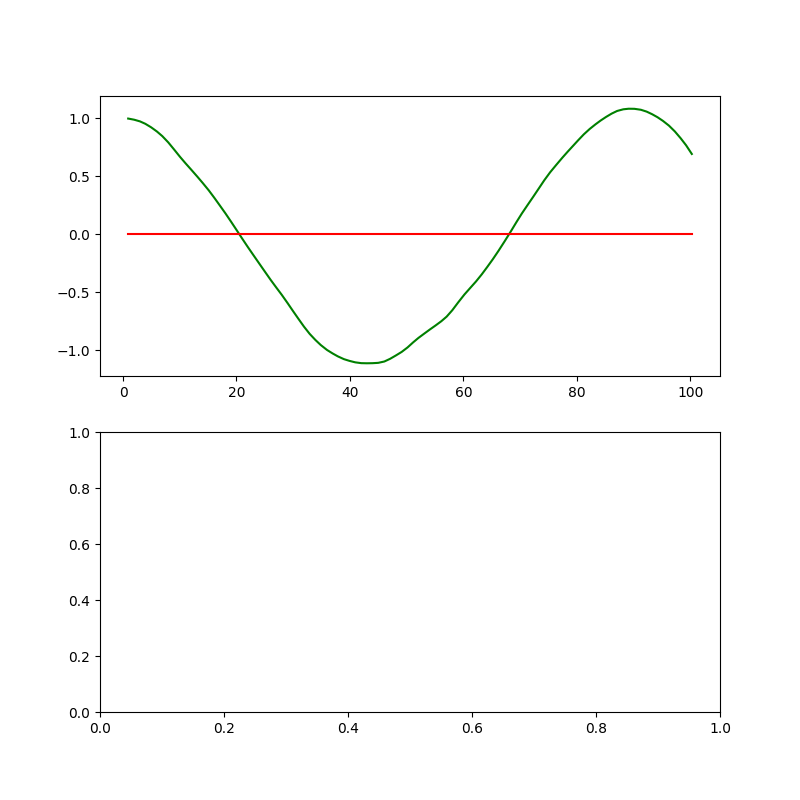
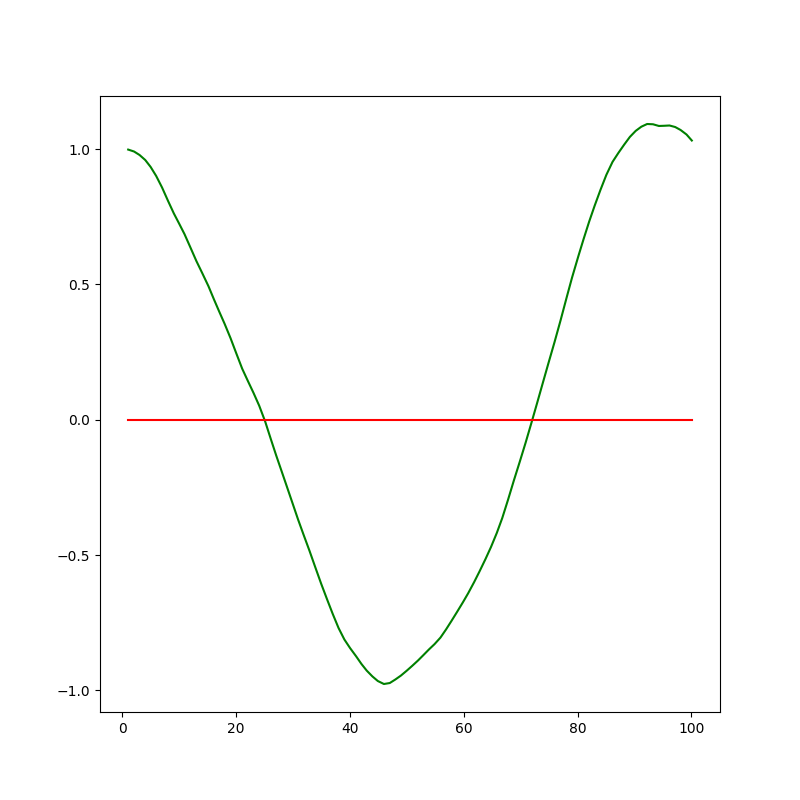
修改说明

diff --git a/PID/PIDControl_fore.py b/PID/PIDControl_fore.py
@@ -7,7 +7,6 @@ import numpy as np
  
 import matplotlib.pyplot as plt
  
- 
 class Robot(object):
  
   def __init__(self, length=20.0):
@@ -52,6 +51,10 @@ class Robot(object):
       Sets thenoise parameters.
     """
  
+    # makes itpossible to change the noise parameters
+ 
+    # this isoften useful in particle filters
+ 
     self.steering_noise = steering_noise
  
     self.distance_noise = distance_noise
@@ -86,21 +89,21 @@ class Robot(object):
     if distance< 0.0:
  
       distance= 0.0
- 
+
     # apply noise
     steering2 =random.gauss(steering, self.steering_noise)
- 
     distance2 =random.gauss(distance, self.distance_noise)
-
+ 
     # applysteering drift
     steering2 +=self.steering_drift
  
+
     # Execute motion
     turn =np.tan(steering2) * distance2 / self.length
- 
- 
- 
+
     if abs(turn)< tolerance:
+ 
+      #approximate by straight line motion
  
       self.x +=distance2 * np.cos(self.orientation)
  
@@ -109,6 +112,8 @@ class Robot(object):
       self.orientation = (self.orientation + turn) % (2.0 * np.pi)
  
     else:
+ 
+      #approximate bicycle model for motion
  
       radius =distance2 / turn
  
@@ -126,8 +131,8 @@ class Robot(object):
  
   def __repr__(self):
  
-    return '[x=%.5f y=%.5f orient=%.5f]' % (self.x, self.y, self.orientation)
-    
+    return'[x=%.5f y=%.5f orient=%.5f]' % (self.x, self.y, self.orientation)
+
  
 def run_p(robot, tau, n=100, speed=1.0):
  
@@ -155,16 +160,18 @@ robot = Robot()
  
 robot.set(0, 1, 0)
 
-robot.set_noise(0.1,0.05)
+robot.set_noise(0.01,0.01)
  
 
-def run(robot, tau, n=100, speed=1.0):
+def run(robot, tau_p, tau_d, tau_i, n=100, speed=1.0):
  
   x_trajectory = []
  
   y_trajectory = []
  
-  crosstrack_error = []
+  #steering =-tau_p * CTE - tau_d * diff_CTE - tau_i * int_CTE
+ 
+  crosstrack_error= []
  
   crosstrack_error.append(0.0)
  
@@ -179,10 +186,11 @@ def run(robot, tau, n=100, speed=1.0):
   distance = 0.0
  
  
-  print("tau:",tau)
+ 
   for i in range(n):
  
-    steering = -1 * tau
+    steering = -tau_p * crosstrack_error[i] - \
+        tau_d * diff_CTE - tau_i * sum(crosstrack_error)
  
     distance =speed
  
@@ -198,24 +206,27 @@ def run(robot, tau, n=100, speed=1.0):
  
     y1 = startY +(x1 - startX) * np.tan(startOrientation)
  
-    crosstrack_error = (robot.y - y1) * np.cos(startOrientation)
+    crosstrack =(robot.y - y1) * np.cos(startOrientation)
  
-    print("{} [{}, {}] {}".format(i,robot.x, robot.y,steering))
+    crosstrack_error.append(crosstrack)
+ 
+    diff_CTE =crosstrack_error[i+1] - crosstrack_error[i]
+ 
+    print("{} [{}, {}] {}, {}".format(i,robot.x, robot.y,steering, crosstrack))
+ 
        
  
   return x_trajectory, y_trajectory
  
    
-x_trajectory, y_trajectory = run_p(robot,0.1)
+x_trajectory, y_trajectory = run(robot,0.1, 1.0, 0.322)
 
 n = len(x_trajectory)
 
-print("length:{}",n)
-
 fig, ax1 = plt.subplots(1, 1, figsize=(8, 8))
- 
-ax1.plot(x_trajectory, y_trajectory, 'g', label='Pcontroller')
- 
+
+ax1.plot(x_trajectory, y_trajectory, 'g', label='PDcontroller')
+
 ax1.plot(x_trajectory, np.zeros(n), 'r', label='reference')
 
 plt.show()

diff --git a/PID/PIDControl.py b/PID/PIDControl.py
@@ -223,7 +223,7 @@ x_trajectory, y_trajectory = run(robot,2.566, 26.321, 0.322)
 
 n = len(x_trajectory)
 
-fig, (ax1, ax2) = plt.subplots(2, 1, figsize=(8, 8))
+fig, ax1 = plt.subplots(1, 1, figsize=(8, 8))
 
 ax1.plot(x_trajectory, y_trajectory, 'g', label='PDcontroller')
 

diff --git a/PID/PDControl.py b/PID/PDControl.py
@@ -222,7 +222,7 @@ x_trajectory, y_trajectory = run(robot, 0.1, 1.0)
 
 n = len(x_trajectory)
 
-fig, (ax1, ax2) = plt.subplots(2, 1, figsize=(8, 8))
+fig, ax1 = plt.subplots(1, 1, figsize=(8, 8))
 
 ax1.plot(x_trajectory, y_trajectory, 'g', label='PDcontroller')
 
